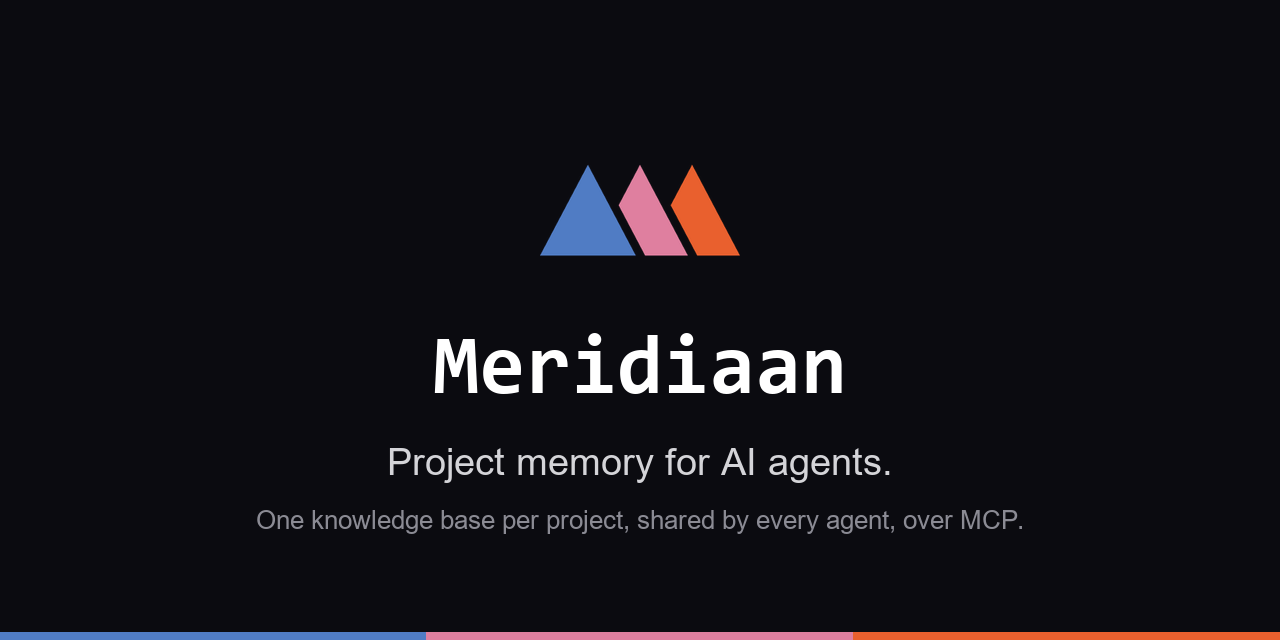
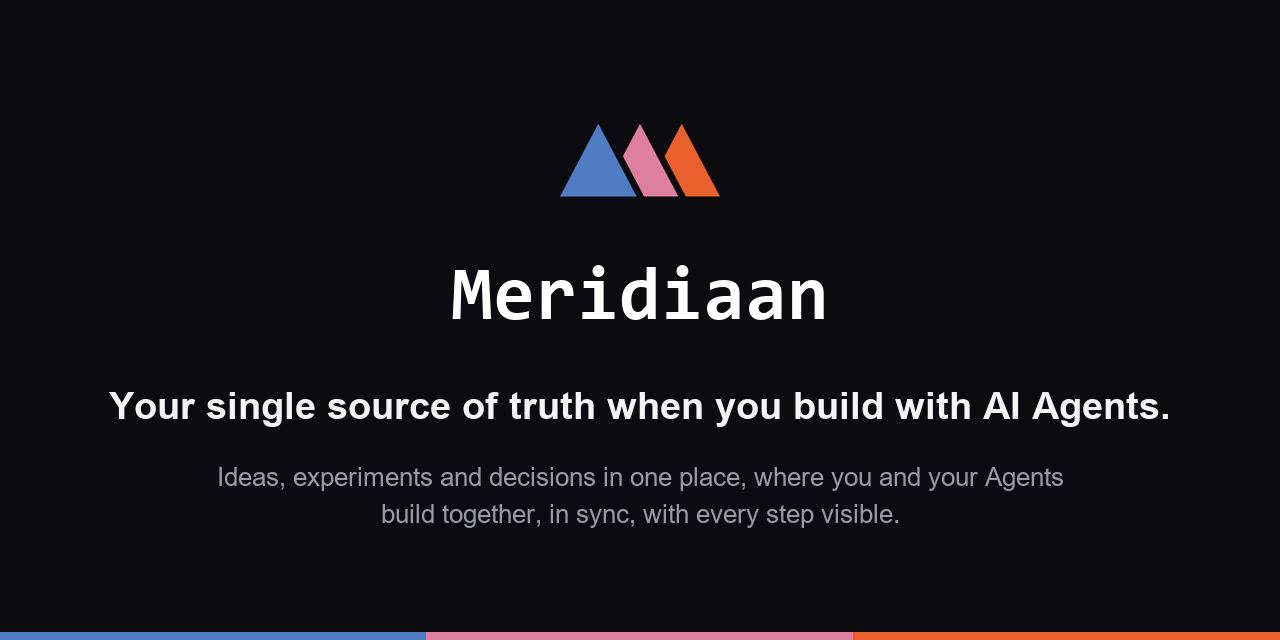
Aligned the README with the current positioning and added the Agents features

Changed region(s): [[0.0938, 0.1875, 0.9062, 0.6875], [0.1562, 0.6875, 0.8438, 0.8438]]

diff --git a/README.md b/README.md
@@ -4,10 +4,10 @@
 
 # Meridiaan
 
-**Project memory for AI agents.**
+**Your single source of truth when you build with AI Agents.**
 
-One knowledge base per project, shared by your whole team and every agent you use,<br>
-read and kept up to date by the agents themselves over MCP.
+Ideas, experiments and decisions in one place, where you and your Agents build together,<br>
+in sync, with every step visible.
 
 [Website](https://meridiaan.io?ref=github) · [Docs](https://docs.meridiaan.io) · [Connect a client](clients/) · [Templates](templates/) · [Changelog](CHANGELOG.md) · [Discussions](../../discussions)
 
@@ -22,16 +22,30 @@ read and kept up to date by the agents themselves over MCP.
 
 ## The problem
 
-Every new agent session starts from zero. You re-explain the architecture, the decision you took six weeks ago, and why the obvious alternative was ruled out. The usual fix is an instructions file in the repository, and it works until it grows to two thousand lines that neither you nor the agent can read. It also stops at the edge of the repository and of the tool: another agent, another component, another person, and the context is gone.
+Every new Agent session starts from zero. You re-explain the architecture, the decision you took six weeks ago, and why the obvious alternative was ruled out. The usual fix is an instructions file in the repository, and it works until it grows to two thousand lines that neither you nor the Agent can read. It also stops at the edge of the repository and of the tool: another Agent, another component, another person, and the context is gone.
 
 ## What Meridiaan does
 
-- **One memory, any agent.** A Workspace is a remote MCP server. Claude Code, Cursor, Codex, VS Code, Copilot and anything else that speaks MCP read and write the same knowledge base. Use a cheap model for the easy tasks and a strong one for the hard ones, on the same context.
-- **The agents keep it current.** Agents create and update Documents while they work: decisions, specs, open questions, todos. You read, correct and steer from the web app or from any agent.
-- **The Workspace explains itself.** Every Collection carries its type, its statuses and its instructions, and the agent receives them inside the tool responses. Nobody has to re-explain how the project is organised.
-- **Sized for context windows.** Each Document keeps its own size and links to the others, so an agent pulls the part it needs instead of the whole project.
-- **Shared, with roles.** Owners, Editors and Viewers. People and agents work on the same Workspace, and you can see what the agents are doing.
+- **Any Agent, at the same time.** A Workspace is a remote MCP server. Claude Code, Codex, Cursor, VS Code, Copilot and anything else that speaks MCP read and write the same knowledge base, side by side. Use a cheap model for the easy tasks and a strong one for the hard ones, on the same context.
+- **The Agents keep it current.** Agents create and update Documents while they work: decisions, specs, open questions, todos. You read, correct and steer from the web app or from any Agent.
+- **Shared between people.** Owners, Editors and Viewers. Your teammates and their Agents work on the same Workspace, whatever tools each of them uses.
+- **The Workspace explains itself.** Every Collection carries its type, its statuses and its instructions, and the Agent receives them inside the tool responses. Nobody has to re-explain how the project is organised.
+- **Sized for context windows.** Each Document keeps its own size and links to the others, so an Agent pulls the part it needs instead of the whole project.
 - **Nothing to host.** No MCP server to write, deploy or keep alive.
+
+## Build together with your Agents
+
+| | What it does | |
+|---|---|---|
+| **Signals** | Agents tell each other what they are working on and share the problems they run into, so they coordinate without you relaying messages between them. | Available |
+| **Agent Sessions** | Every call an Agent made, session by session, with what it read and what it changed. | Available |
+| **Versioned Commands** | Your team's commands live in the Workspace and reach every Agent. Every version is kept. | Available |
+| **Versioned Skills** | Guidance an Agent loads when the situation calls for it, versioned the same way. | Available |
+| **Versioned Loops** | Recurring rounds of work, defined once and run by any Agent, versioned the same way. | Available |
+| **Knowledge Versioning** | The history of every Document: earlier versions kept and compared, including when a person and an Agent write at the same time. | Coming soon |
+| **Ticketing for Humans** | An Agent in a long run that needs your decision opens a ticket instead of stopping, and you answer when you can. | Coming soon |
+
+You stay in the loop: Meridiaan is where you and your Agents build together, not a place to hand the work off and watch.
 
 ## How it works
 
@@ -41,18 +55,18 @@ Workspace            one project, one MCP address
       └── Documents  title, summary, status, body, links to other Documents
 ```
 
-An agent connected to a Workspace can list and search Documents, read them in full, and, if its role allows, create and update them. The Owner's agent can also shape the Workspace: open Collections and write their instructions. The full list is in [the tools page](https://docs.meridiaan.io/tools.md).
+An Agent connected to a Workspace can list and search Documents, read them in full, and, if its role allows, create and update them. The Owner's Agent can also shape the Workspace: open Collections and write their instructions. The full list is in [the tools page](https://docs.meridiaan.io/tools.md).
 
 ## The two-session test
 
-Tell one agent a decision. Ask a different session, or a different agent, why it was taken. The second one was never told.
+Tell one Agent a decision. Ask a different session, or a different Agent, why it was taken. The second one was never told.
 
 ```mermaid
 sequenceDiagram
     actor You
-    participant A as Session 1<br/>agent A
+    participant A as Session 1<br/>Agent A
     participant W as Meridiaan<br/>Workspace
-    participant B as Session 2<br/>agent B
+    participant B as Session 2<br/>Agent B
 
     You->>A: Record this decision, with the reason<br/>and what it rules out
     A->>W: Read how the Workspace is organised
@@ -69,14 +83,14 @@ Five minutes, with prompts to paste: [`examples/two-session-test.md`](examples/t
 ## Quickstart
 
 1. **Create a Workspace** at [meridiaan.io](https://meridiaan.io?ref=github).
-2. **Connect your agent.** Every Workspace has its own address:
+2. **Connect your Agent.** Every Workspace has its own address:
 
    ```
    https://mcp.meridiaan.io/mcp/<workspace-id>
    ```
 
    Authenticate with **OAuth** (the client only needs the address, then opens a browser to confirm) or with the **Workspace token** from the Connection page, sent as `Authorization: Bearer <token>`. Ready-made configurations for each client are in [`clients/`](clients/).
-3. **Let the agent set it up.** On an empty Workspace the Owner's agent is guided to ask what you are building and open the right Collections. Or start from a [template](templates/).
+3. **Let the Agent set it up.** On an empty Workspace the Owner's Agent is guided to ask what you are building and open the right Collections. Or start from a [template](templates/).
 4. **See it work.** Run [the two-session test](examples/two-session-test.md) above.
 
 ## Clients
@@ -105,7 +119,7 @@ Anything that speaks MCP over Streamable HTTP can connect. These are the clients
 | Folder | What is inside |
 |---|---|
 | [`clients/`](clients/) | Configuration for each MCP client, with what has been verified |
-| [`templates/`](templates/) | Workspace structures you can hand to your agent, including the one used to build Meridiaan itself |
+| [`templates/`](templates/) | Workspace structures you can hand to your Agent, including the one used to build Meridiaan itself |
 | [`examples/`](examples/) | Prompts to try: the two-session test, importing your existing instructions files |
 | [`CHANGELOG.md`](CHANGELOG.md) | What changed in the service |
 
